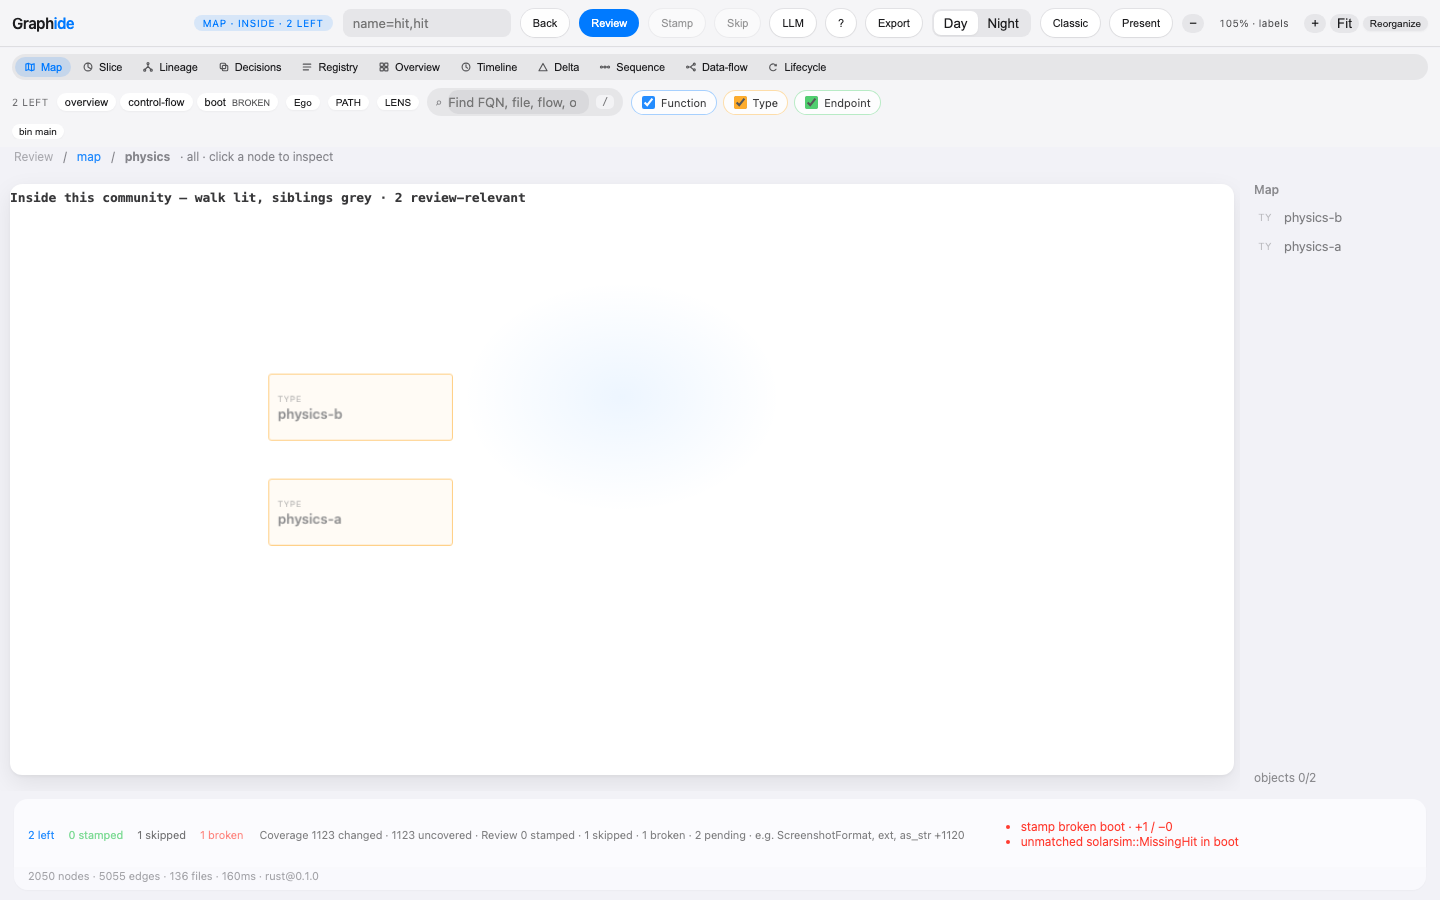
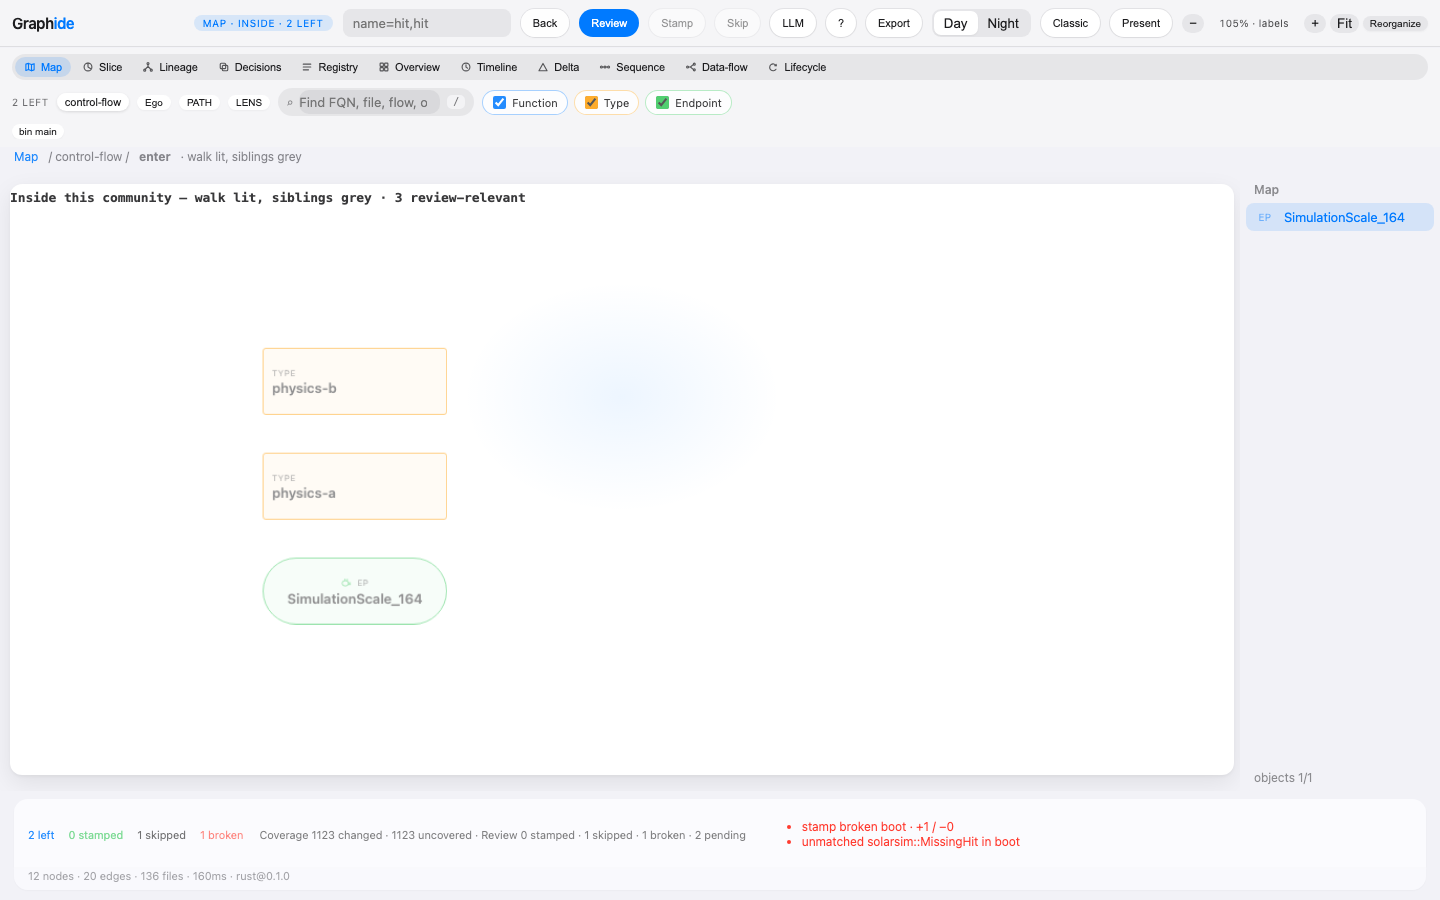
test(enter): record the 461/461 singleton-member proof

diff --git a/verification/graphic-node-endgoals.md b/verification/graphic-node-endgoals.md
@@ -72,6 +72,8 @@ Choice: that one-member leaf is the derived node (`is_leaf`, real kind, `steiner
 
 Proof target: `E1l` (`b-physics-c` enters as `n164` `[data-shape="endpoint"][data-leaf="1"]`, not as a Type id). `E1d` / `SR2c` / `E1f` still keep the two Type communities.
 
+Proved on this Mac mini: `npm run verify` → `PASS verify-graphide · 461/461`, including `E1l`, `E1d`, `E1f`, and `SR2c`. `verification/enter-child-type.png` luma 0.972 at 1440×900. Two Type rects (`physics-a`, `physics-b`) and one Endpoint stadium (`SimulationScale_164`), not a black frame. No `.graphide/stamps/` write.
+
 ## Ranked backlog (Pass 7+)
 
 1. Decision shape. `shapeOf` already returns `decision` for lifecycle waiting. Enter has no branch producer. Do not invent one until the IR has a decision.
